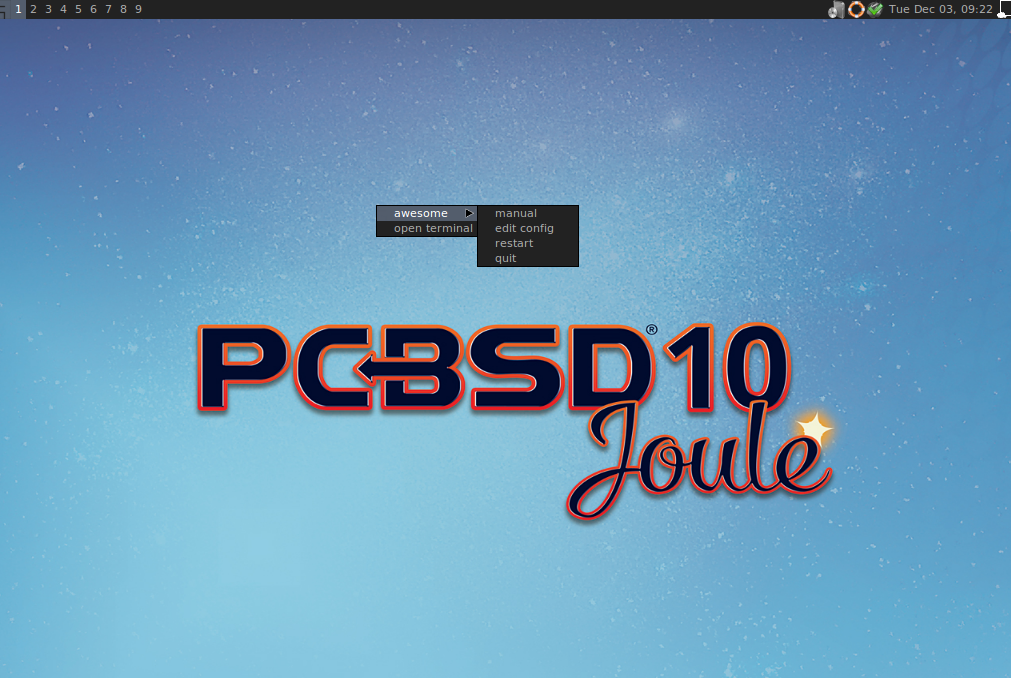
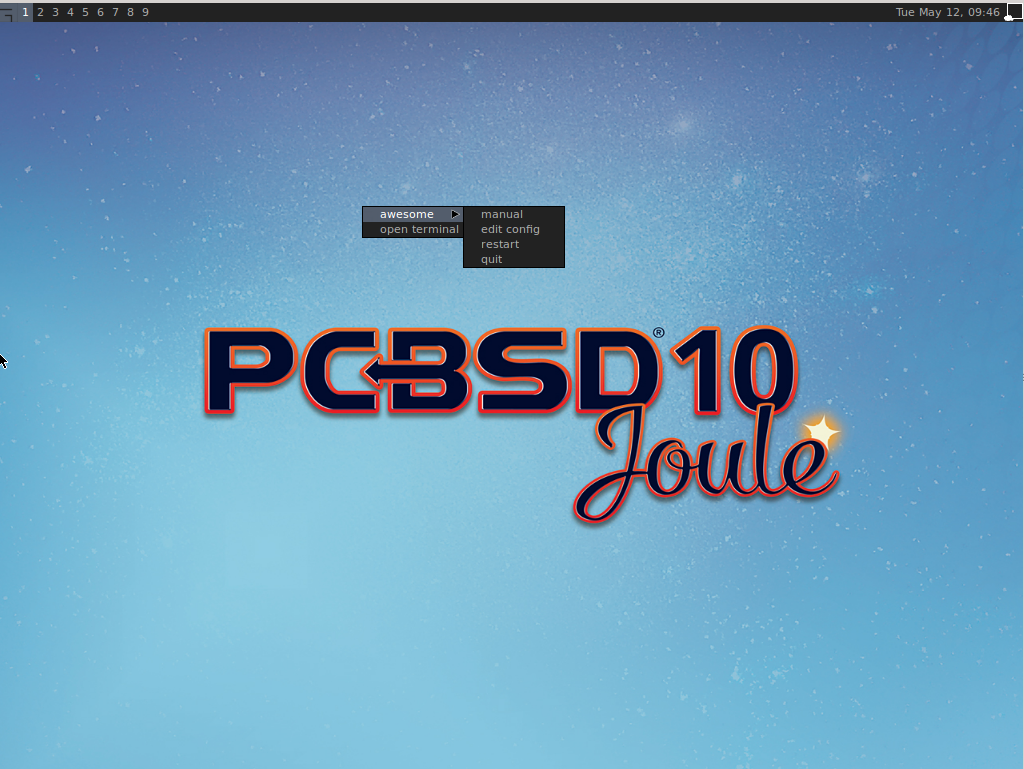
Review of Chapter 7. Also start to update some desktop screenshots.

diff --git a/src-qt5/docs/update.rst b/src-qt5/docs/update.rst
@@ -7,7 +7,7 @@ Installing Applications and Keeping PC-BSD® Updated
 Both PC-BSD® and TrueOS® provide tools to make it easy to manage software and to keep both the operating system and installed software up-to-date. PC-BSD®
 provides the graphical :ref:`AppCafe®` and :ref:`Update Manager` utilities for managing and upgrading software from the local system or from a web browser or
 mobile device. Since TrueOS® is a command-line only install and some users prefer to use command-line utilities, both PC-BSD® and TrueOS® provide the
-:ref:`PBI Manager` suite of command line utilities and :command:`pkg` to manage software and :command:`pc-updatemanager` to manage updates. If you install
+:ref:`PBI Manager` suite of command line utilities and :command:`pkg` to manage software, as well as :command:`pc-updatemanager` to manage updates. If you install
 software using any of the tools described in this chapter, you will automatically be notified whenever a newer version of software is available.
 
 The rest of this chapter demonstrates how to use the built-in graphical and command-line tools for managing software and upgrades. It also describes how to
@@ -19,7 +19,7 @@ The rest of this chapter demonstrates how to use the built-in graphical and comm
 AppCafe®
 =========
 
-AppCafe® provides an intuitive, graphical method for installing and managing PBIs and packages. PBIs are FreeBSD packages that contain extra meta-data which
+AppCafe® provides an intuitive, graphical method for installing and managing PBIs and packages. PBIs are packages that contain extra meta-data which
 is displayed in AppCafe®, such as screenshots and lists of similar applications.
 
 AppCafe® does not require the *root* password to install software. This means that you do not have to give out the root password on multi-user systems.
@@ -70,7 +70,7 @@ Check the box to "Enable AppCafe Remote". Then, input a username and password to
 address, be sure to use a hard-to-guess username and password. If you change the port number, make sure it does not conflict with another application running
 on the system. Click "Apply" to complete the configuration. You will be prompted to input your password to save the configuration.
 
-When using AppCafe® to access a system with a public network it is highly recommended to configure the network firewall to only allow connections over
+When using AppCafe® to access a system from a public network, it is highly recommended to configure the local firewall to only allow connections over
 the specified port number and from allowed IP address(es).
 
 AppCafe® uses SSL by default and will automatically create a certificate for this purpose. Once remote access is configured, use :file:`https://` and
@@ -81,7 +81,7 @@ minutes of inactivity.
 
 The :file:`/usr/local/etc/appcafe.conf` file stores the configuration used by AppCafe® and can be edited in a text editor. By default, the "remote",
 "port", and "ssl" options are set using the information you provided either during a server installation or using the screen shown in Figure 7.1c.
-The "mode" option is not set by default, but can be by removing the comment symbol (";") from that option and setting its value to either
+The "mode" option is not set by default, but can be configured by removing the comment symbol (";") from that option and setting its value to either
 "desktop", "server", or "appliance". Here are the descriptions of the available modes as listed in that file::
 
  tail -5 /usr/local/etc/appcafe.conf
@@ -115,7 +115,7 @@ The "Categories" pane lists the available software categories. By default, only 
 the PBIs for each category, click the "Recommended" button which will change to a grey "All Apps". Click the name of a category to view the available
 PBIs within that category.
 
-To view all of the applications installed on the system or jail you are "Viewing Apps for:", click "Installed Apps" in the top bar. The applications will be
+To view all of the applications installed on the system or jail you are "Viewing Apps for:", click the "Installed Apps" tab. The applications will be
 listed in alphabetical order. Click the name of an application to view more information about the application.
 
 In the example shown in Figure 7.1d, the user has clicked "Firefox" on a system that has Firefox installed.
@@ -132,7 +132,8 @@ The information for an application includes the following:
 
 * A hyperlink to the application's website. In this example, clicking "Mozilla" will open the application's website in the user's default web browser.
 
-* A hyperlink to the application's information at `freshports.org <freshports.org>`_. Click the arrow icon next to Mozilla to open that website in the user's default web browser.
+* A hyperlink to the application's information at `freshports.org <freshports.org>`_. Click the arrow icon next to "Mozilla" to open the FreshPorts website in the user's
+  default web browser.
 
 * A rating of up to five stars. Click the stars to open the PC-BSD® wiki page for the application. If you login to the wiki and hover the mouse over the
   number of stars to select, it will add your ranking and increment the vote number. If you make a mistake in your vote, refresh the browser, click the
@@ -173,7 +174,7 @@ The "App Search" tab is shown in Figure 7.1e.
 To find an application, enter its name and click the "binoculars" icon. Alternately, enter a description. For example, a search for "browser" will display
 software with "browser" in the name as well as applications which provide browser functionality, such as Firefox. 
 
-By default, only PBIs are searched. To search for all available software, include packages, check the "Search all available PBI and packages" box.
+By default, only PBIs are searched. To search for all available software, including packages, check the "Search all available PBI and packages" box.
 
 .. index:: AppCafe®
 .. _Managing Software in Jails:
@@ -182,7 +183,7 @@ Managing Software in Jails
 --------------------------
 
 To create, delete, and manage jails, click the "Warden" tab. If you have not yet created any jails on the system, a message will appear. Click the "create a new jail"
-link in the message which will open the screen shown in Figure 7.1f.
+link in the message, or the "Create Jail" tab, to open the screen shown in Figure 7.1f.
 
 **Figure 7.1f: Adding a New Jail**
 
@@ -218,10 +219,8 @@ The jail can then be managed by clicking on the hyperlinks for the jail under th
 
 .. image:: images/remote8.png
 
-.. note:: if any updates are available for the software installed within any of the jails, an "Updates available" link with a yellow triangle icon will appear
-   just under the orange bar. Clicking this link will display a hyperlink for each jail that has updates. For example, click the link "Update packages for
-   jail1" to see the update details for "jail1". 
-
+.. note:: if any updates are available for the software installed within any of the jails, an "Updates available" link with a yellow triangle icon will appear.
+   Clicking this link will display a hyperlink for each jail that has updates. For example, click the link "Update packages for jail1" to see the update details for "jail1". 
 
 .. index:: pkg
 .. _Using the CLI pkg Utilities:
@@ -229,12 +228,9 @@ The jail can then be managed by clicking on the hyperlinks for the jail under th
 Using the CLI pkg Utilities
 ===========================
 
-For managing packages from the command line, PC-BSD® uses :command:`pkg`, the next generation package management system for FreeBSD. To manage PBIs from the
-command line, refer to :ref:`PBI Manager`. If you are used to using the traditional FreeBSD package system, take note that the commands used to install and
-manage software differ slightly. For example, instead of using :command:`pkg_add` to install a package from a remote repository, use :command:`pkg install` or
-:command:`pc-pkg install` (notice there is now a space instead of an underscore).
+PC-BSD® uses :command:`pkg` to manage packages from the command line. To manage PBIs from the command line, instead refer to :ref:`PBI Manager`.
 
-The `FreeBSD Handbook <http://www.freebsd.org/doc//books/handbook/pkgng-intro.html>`_ provides an introduction to using :command:`pkg`. Section 5.4.1 is not
+The `FreeBSD Handbook <http://www.freebsd.org/handbook/pkgng-intro.html>`_ provides an introduction to using :command:`pkg`. Section 5.4.1 is not
 needed on a PC-BSD® or TrueOS® system as the operating system installation does this for you. The various :command:`pkg` commands have associated man pages.
 Type :command:`man pkg` for an overview of general usage; the names of the associated man pages will be found towards the bottom of this man page. Once you
 know the name of a command, you can also use the built-in help system to get more information about that command. For example, to learn more about
@@ -308,7 +304,7 @@ This menu contains the following options:
 
 * **Routing through Tor:** check this box to start browsing the Internet anonymously as described in :ref:`Tor Mode`.
 
-* **Check Tor connection:** click this to determine if the system is currently routing all traffic through the Tor network.
+* **Check Tor connection:** click this to determine if the system is currently routing all Internet traffic through the Tor network.
 
 * **Quit:** to remove Update Manager from the system tray, click this entry. You can put the icon back into the tray by typing :command:`pc-systemupdatertray &`.
 
@@ -321,30 +317,30 @@ How PC-BSD® Updating Works
 The PC-BSD® update mechanism provides several safeguards to ensure that updating the operating system or its software is a low-risk operation. Beginning with
 version 10.1.1, the following steps occur automatically during an update: 
 
-* the update automatically creates a copy of the current operating system, known as a snapshot or boot environment (BE), and mounts that snapshot in the
+* The update automatically creates a copy of the current operating system, known as a snapshot or boot environment (BE), and mounts that snapshot in the
   background. All of the updates then occur in the snapshot. This means that you can safely continue to use your system while it is updating as no changes are
   being made to the operating system or any of the applications currently in use. Instead, all changes are being made to the mounted copy.
 
 .. note:: if the system is getting low on disk space and there is not enough space to create a new BE, the update will fail with a message indicating that there is
    not enough space to perform the update.
 
-* while the update is occurring, and until you reboot after the update, you won't be able to use AppCafe® to manage software. This is a safety measure to prevent
+* While the update is occurring, and until you reboot after the update, you won't be able to use AppCafe® to manage software. This is a safety measure to prevent
   package conflicts. Also, the system shutdown and restart buttons will be greyed out until the update is complete and the system is ready for reboot. Should a power
   failure occur in the middle of an update, the system will reboot into the current boot environment, returning the system to the point before the upgrade started.
   Simply restart the update to continue the update process.
 
-* once the update is complete, the new boot environment, or updated snapshot, is added as the first entry in the boot menu and activated so that the system
+* Once the update is complete, the new boot environment, or updated snapshot, is added as the first entry in the boot menu and activated so that the system
   will boot into it, unless you pause the boot menu and specify otherwise. A pop-up message, shown in Figure 7.3b, will indicate that a reboot is required.
   You can either finish what you are doing and reboot now into the upgraded snapshot, or ask the system to remind you again at a later time. To configure the
   time of the next warning, click the "Next Reminder" drop-down menu where you can select 1, 5, 12, or 24 hours, 30 minutes, or never (for this login
   session). Note that the system will not apply any more updates or allow you to start another manual update or install additional software using AppCafe®
   until you reboot.
 
-* as the update is running, a log is written to :file:`/var/log/pc-updatemanager.log` and this log is displayed in the "View Log" tab of the graphical Update
+* As the update is running, a log is written to :file:`/var/log/pc-updatemanager.log` and this log is displayed in the "View Log" tab of the graphical Update
   Manager utility, shown in Figure 7.3c. This way you can see which software is being updated and if there are any updating errors. The next time an update occurs,
   the previous log is written to :file:`/var/log/pc-updatemanager.log.prev`, so that you also have a copy of the previous update's log.
 
-* you no longer need to initiate updates manually. PC-BSD® now uses an automated updater that automatically checks for updates, no more than once per day, 20
+* You no longer need to initiate updates manually. PC-BSD® now uses an automated updater that automatically checks for updates, no more than once per day, 20
   minutes after a reboot and then every 24 hours. You can configure what gets updated using the "Configure Automatic Updates" tab of Update Manager, shown in
   Figure 7.3d. Choices are "Security & Packages" (all updates), "Security" (only security patches and operating system updates), "Packages" (only installed
   software), or "Nothing" (disables automatic updating).
@@ -396,7 +392,7 @@ the "Configure Automatic Updates" screen shown in Figure 7.3d.
 
 Due to its schedule, the automatic updater will never check for new updates more than once in a 24 hour period. To manually check for updates, right-click the
 Update Manager in system tray and click "Check for Updates". Alternatively, start Update Manager. If any updates are available, an "Updates Available" tab
-will appear, as seen in the example in Figure 7.3g. If no updates are available, this tab will not appear.
+will appear, as seen in the example in Figure 7.3g. If no updates are available, of if the system is currently updating, this tab will not appear.
 
 **Figure 7.3g: System Updates are Available**
 
@@ -464,7 +460,7 @@ To determine if any system updates are available, type the following command::
  Sat Dec 31 18:59:59 EST 2016
  ------------------------------------
 
-If any updates are available, follow the instructions to install the updateh::
+If any updates are available, follow the instructions to install the update::
 
  sudo pc-updatemanager fbsdupdate
  Stopping syscache...
@@ -593,7 +589,7 @@ upgrade GRUB and then to return the prompt. Once the update is complete, reboot 
 Upgrading from 9.x to 10.x
 --------------------------
 
-PC-BSD® has switched to ZFS-only. This means that you can **not** upgrade a system that is either 32-bit or formatted with UFS. If the hardware supports
+PC-BSD® 10.x has switched to 64-bit and ZFS-only. This means that you can **not** upgrade a system that is either 32-bit or formatted with UFS. If the hardware supports
 64-bit, you will need to backup your important data to another system or external drive and then perform a new installation. The new installation will perform
 a format of the selected disk(s) with ZFS.
 
@@ -609,10 +605,10 @@ Upgrading from 10.x to 10.1.2
 Upgrading from any 10.x version to 10.1.2 is the same as applying any package update. This means that the update to 10.1.2 will either appear in Update
 Manager as a package update, for both "Edge" and "Production" users, or in the listing of :command:`pc-updatemanager pkgcheck`.
 
-.. note:: a fresh install, rather than an update, is required if you wish to take advantage of any of the following features: UEFI boot (on a current non-UEFI
-   installation), disk encryption, or the
+.. note:: a fresh install, rather than an update, is only required if you wish to take advantage of any of the following features: UEFI boot (on a current non-UEFI
+   installation), full disk encryption, or the
    `improved encryption key generation provided by GELIv7 <https://github.com/freebsd/freebsd/commit/38de8ef1dd0e468ff1e3ec1c431f465e270beba3>`_. This means
-   that you will have to backup your data to an external drive or another system, perform the install, than restore your data from backup.
+   that you will have to backup your data to an external drive or another system, perform the new install, then restore your data from the backup.
 
 .. index:: software
 .. _PBI Manager:
@@ -708,25 +704,33 @@ The following example installs the alpine PBI. When prompted, input your passwor
 
  sudo pbi_add alpine
  Password:
- Updating repository catalogue 
- Installing: alpine The following 2 packages will be installed: 
- Installing pico-alpine: 2.00_1
- Installing alpine: 2.00_4
- The installation will require 9 MB more space 
- 2 MB to be downloaded 
- pico-alpine-2.00_1.txz 100% 314KB 313.9KB/s 313.9KB/s 00:01 
- alpine-2.00_4.txz 100% 1701KB 1.7MB/s 1.4MB/s 00:01 
- Checking integrity... done The following 2 packages will be installed: 
- Installing pico-alpine: 2.00_1
- Installing alpine: 2.00_4
- The installation will require 9 MB more space 
- 0 B to be downloaded 
- Checking integrity... done 
- [1/2] Installing pico-alpine-2.00_1... done 
- [2/2] Installing alpine-2.00_4... done 
- **************************************************************** 
- *** To use GnuPG with Alpine, take a look at the mail/pine-pgp-filters port *** 
- **************************************************************** 
+ Updating pcbsd-major repository catalogue...
+ pcbsd-major repository is up-to-date.
+ All repositories are up-to-date.
+ Installing: alpine
+ Updating pcbsd-major repository catalogue...
+ pcbsd-major repository is up-to-date.
+ All repositories are up-to-date.
+ The following 2 package(s) will be affected (of 0 checked):
+ New packages to be INSTALLED:
+        alpine: 2.20
+        pico-alpine: 2.20_1
+ The process will require 9 MiB more space.
+ 2 MiB to be downloaded.
+ Fetching alpine-2.20.txz: 100%    2 MiB   1.8MB/s    00:01    
+ Fetching pico-alpine-2.20_1.txz: 100%  319 KiB 326.9kB/s    00:01    
+ Checking integrity... done (0 conflicting)
+ [1/2] Installing pico-alpine-2.20_1...
+ [1/2] Extracting pico-alpine-2.20_1: 100%
+ [2/2] Installing alpine-2.20...
+ [2/2] Extracting alpine-2.20: 100%
+ Message for alpine-2.20:
+ *******************************************************************************
+ *** To use GnuPG with Alpine, take a look at the mail/pine-pgp-filters port ***
+ *******************************************************************************
+ Pruning: /usr/local/share/xsessions/[0-9a-zA-Z]*.desktop
+ Extracting ports overlay data...DONE
+ compat.linux.osrelease: 2.6.18 -> 2.6.18
 
 .. index:: PBI Manager
 .. _pbi delete:
@@ -734,7 +738,7 @@ The following example installs the alpine PBI. When prompted, input your passwor
 pbi_delete 
 -----------
 
-The :command:`pbi_delete` command removes an installed PBI from the system. Table 7.4d summarizes its one available option: 
+The :command:`pbi_delete` command removes an installed PBI from the system. Table 7.4d summarizes its available options.
 
 **Table 7.4d: pbi_delete Options**
 
@@ -752,17 +756,15 @@ The following example uninstalls the previously installed alpine PBI::
 
  sudo pbi_delete alpine
  Password: 
- Updating repository catalogue 
- Deinstallation has been requested for the following 1 packages: 
- alpine-2.00_4
- The deinstallation will free 8 MB 
- [1/1] Deleting alpine-2.00_4... done 
- Deinstallation has been requested for the following 2 packages: 
- openjpeg-2.1.0
- pico-alpine-2.00_1
- The deinstallation will free 2 MB 
- [1/2] Deleting openjpeg-2.1.0... done 
- [2/2] Deleting pico-alpine-2.00_1... done
+ Updating pcbsd-major repository catalogue...
+ All repositories are up-to-date.
+ Checking integrity... done (0 conflicting)
+ Deinstallation has been requested for the following 1 package (of 0 packages in the universe): 
+ Installed packages to be REMOVED:
+ alpine-2.20
+ The operation will free 8 MiB 
+ [1/1] Deinstalling alpine-2.20...
+ [1/1] Deleting files for alpine-2.20: 100%
 
 .. index:: PBI Manager
 .. _pbi icon:
@@ -813,6 +815,35 @@ The :command:`pbi_info` command is used to determine which PBIs are currently in
 +------------------------+------------------------------------------------------------------------------------------+
 
 .. index:: PBI Manager
+.. _pbi install:
+
+pbi install
+-----------
+
+The :command:`pbi install` command provides an alternative to :command:`pbi_add` and is also used to install PBIs. Table 7.4g summarizes its available options.
+
+**Table 7.4g: pbi install Options**
+
++------------------------+-----------------------------------------------------------------------------------------------------------------------------------+
+| Switch                 | Description                                                                                                                       |
++========================+===================================================================================================================================+
+| **-f**                 | force installation, overwriting an already installed copy of the application                                                      |
++------------------------+-----------------------------------------------------------------------------------------------------------------------------------+
+| **-i**                 | display information about specified PBI; if combined with **-v**, will display all of the files that will be installed with the   |
+|                        | PBI                                                                                                                               |
++------------------------+-----------------------------------------------------------------------------------------------------------------------------------+
+| **-j <jailname>**      | installs the PBI into the specified jail                                                                                          |
++------------------------+-----------------------------------------------------------------------------------------------------------------------------------+
+| **-J**                 | used to create a new jail and install specified PBI into it                                                                       |
++------------------------+-----------------------------------------------------------------------------------------------------------------------------------+
+| **-l**                 | display :file:`LICENSE` text for specified PBI                                                                                    |
++------------------------+-----------------------------------------------------------------------------------------------------------------------------------+
+| **-v**                 | enable verbose output                                                                                                             |
++------------------------+-----------------------------------------------------------------------------------------------------------------------------------+
+| **--licagree**         | if the PBI has a license, agree to it                                                                                             |
++------------------------+-----------------------------------------------------------------------------------------------------------------------------------+
+
+.. index:: PBI Manager
 .. _pbi_makeindex:
 
 pbi_makeindex
@@ -839,7 +870,7 @@ Create Your Own PBI Repository
 By default, AppCafe® displays the PBIs which are available from the official PC-BSD® repository. It also supports custom repositories. This section describes the steps to
 create a custom repository.
 
-The :file:`INDEX` of a PBI repository must be digitally signed for security and identification purposes. In order to sign the :file:`INDEX`, first create an
+The :file:`INDEX` of a PBI repository should be digitally signed for security and identification purposes. In order to sign the :file:`INDEX`, first create an
 OpenSSL key pair using the following commands::
 
  openssl genrsa -out privkey.pem 4096
@@ -853,7 +884,7 @@ OpenSSL key pair using the following commands::
 
 These commands will create the files :file:`privkey.pem` and :file:`pub.key`.
 
-To create the customized PBI modules, follow the instructions in :ref:`Bulk Module Creator`. If the repository directory is :file:`~/myrepo/`, make sure that
+To create the customized PBI modules, follow the instructions in :ref:`Bulk Module Creator`. For example, if the repository directory is :file:`~/myrepo/`, make sure that
 all of the custom modules are listed as subdirectories of that directory.
 
 Next, configure a FTP, HTTP, or HTTPS server to host the directory containing the custom PBI modules. The server can be a public URL on the Internet or a
@@ -881,8 +912,8 @@ This will create the files :file:`PBI-INDEX.txz` and :file:`PBI-INDEX.txz.sha1`.
 .. index:: software
 .. _Import the Repository:
 
-Finally, to configure  to use the custom repository, go to :menuselection:`Configure --> Repository Settings`. Click "Custom" in the screen shown in Figure 7.5a, then
-the "+" button. Input the URL to the repository and click "OK". 
+Finally, on each client, configure :ref:`Appcafe®` to use the custom repository. Go to :menuselection:`Configure --> Repository Settings`. Click "Custom" in the screen
+shown in Figure 7.5a, then the "+" button. Input the URL to the repository and click "OK". 
 
 **Figure 7.5a: Add the Custom Repository to AppCafe®**
 
@@ -896,9 +927,8 @@ It will take a few minutes for AppCafe® to read in the :file:`INDEX` for the cu
 Create a Local Package Mirror
 =============================
 
-The official PC-BSD® package repository is hosted ad a `ScaleEngine <http://www.scaleengine.com/>`_ CDN (Content Delivery Network). It provides
-the ability to :command:`rsync` your own copy of the package repository, which means you can have a locally hosted, complete package repository
-available for your own clients.
+The official PC-BSD® package repository is hosted as a `ScaleEngine <http://www.scaleengine.com/>`_ CDN (Content Delivery Network). It is possible to
+:command:`rsync` a copy of the package repository, which means you can have a locally hosted, complete package repository available for your own clients.
 
 To create a local package mirror, first setup a directory which is served over HTTP. The web server can be a public URL on the Internet or a
 private web server, as long as it is accessible to your target audience. Ensure that this directory is browsable by a web browser from a client
